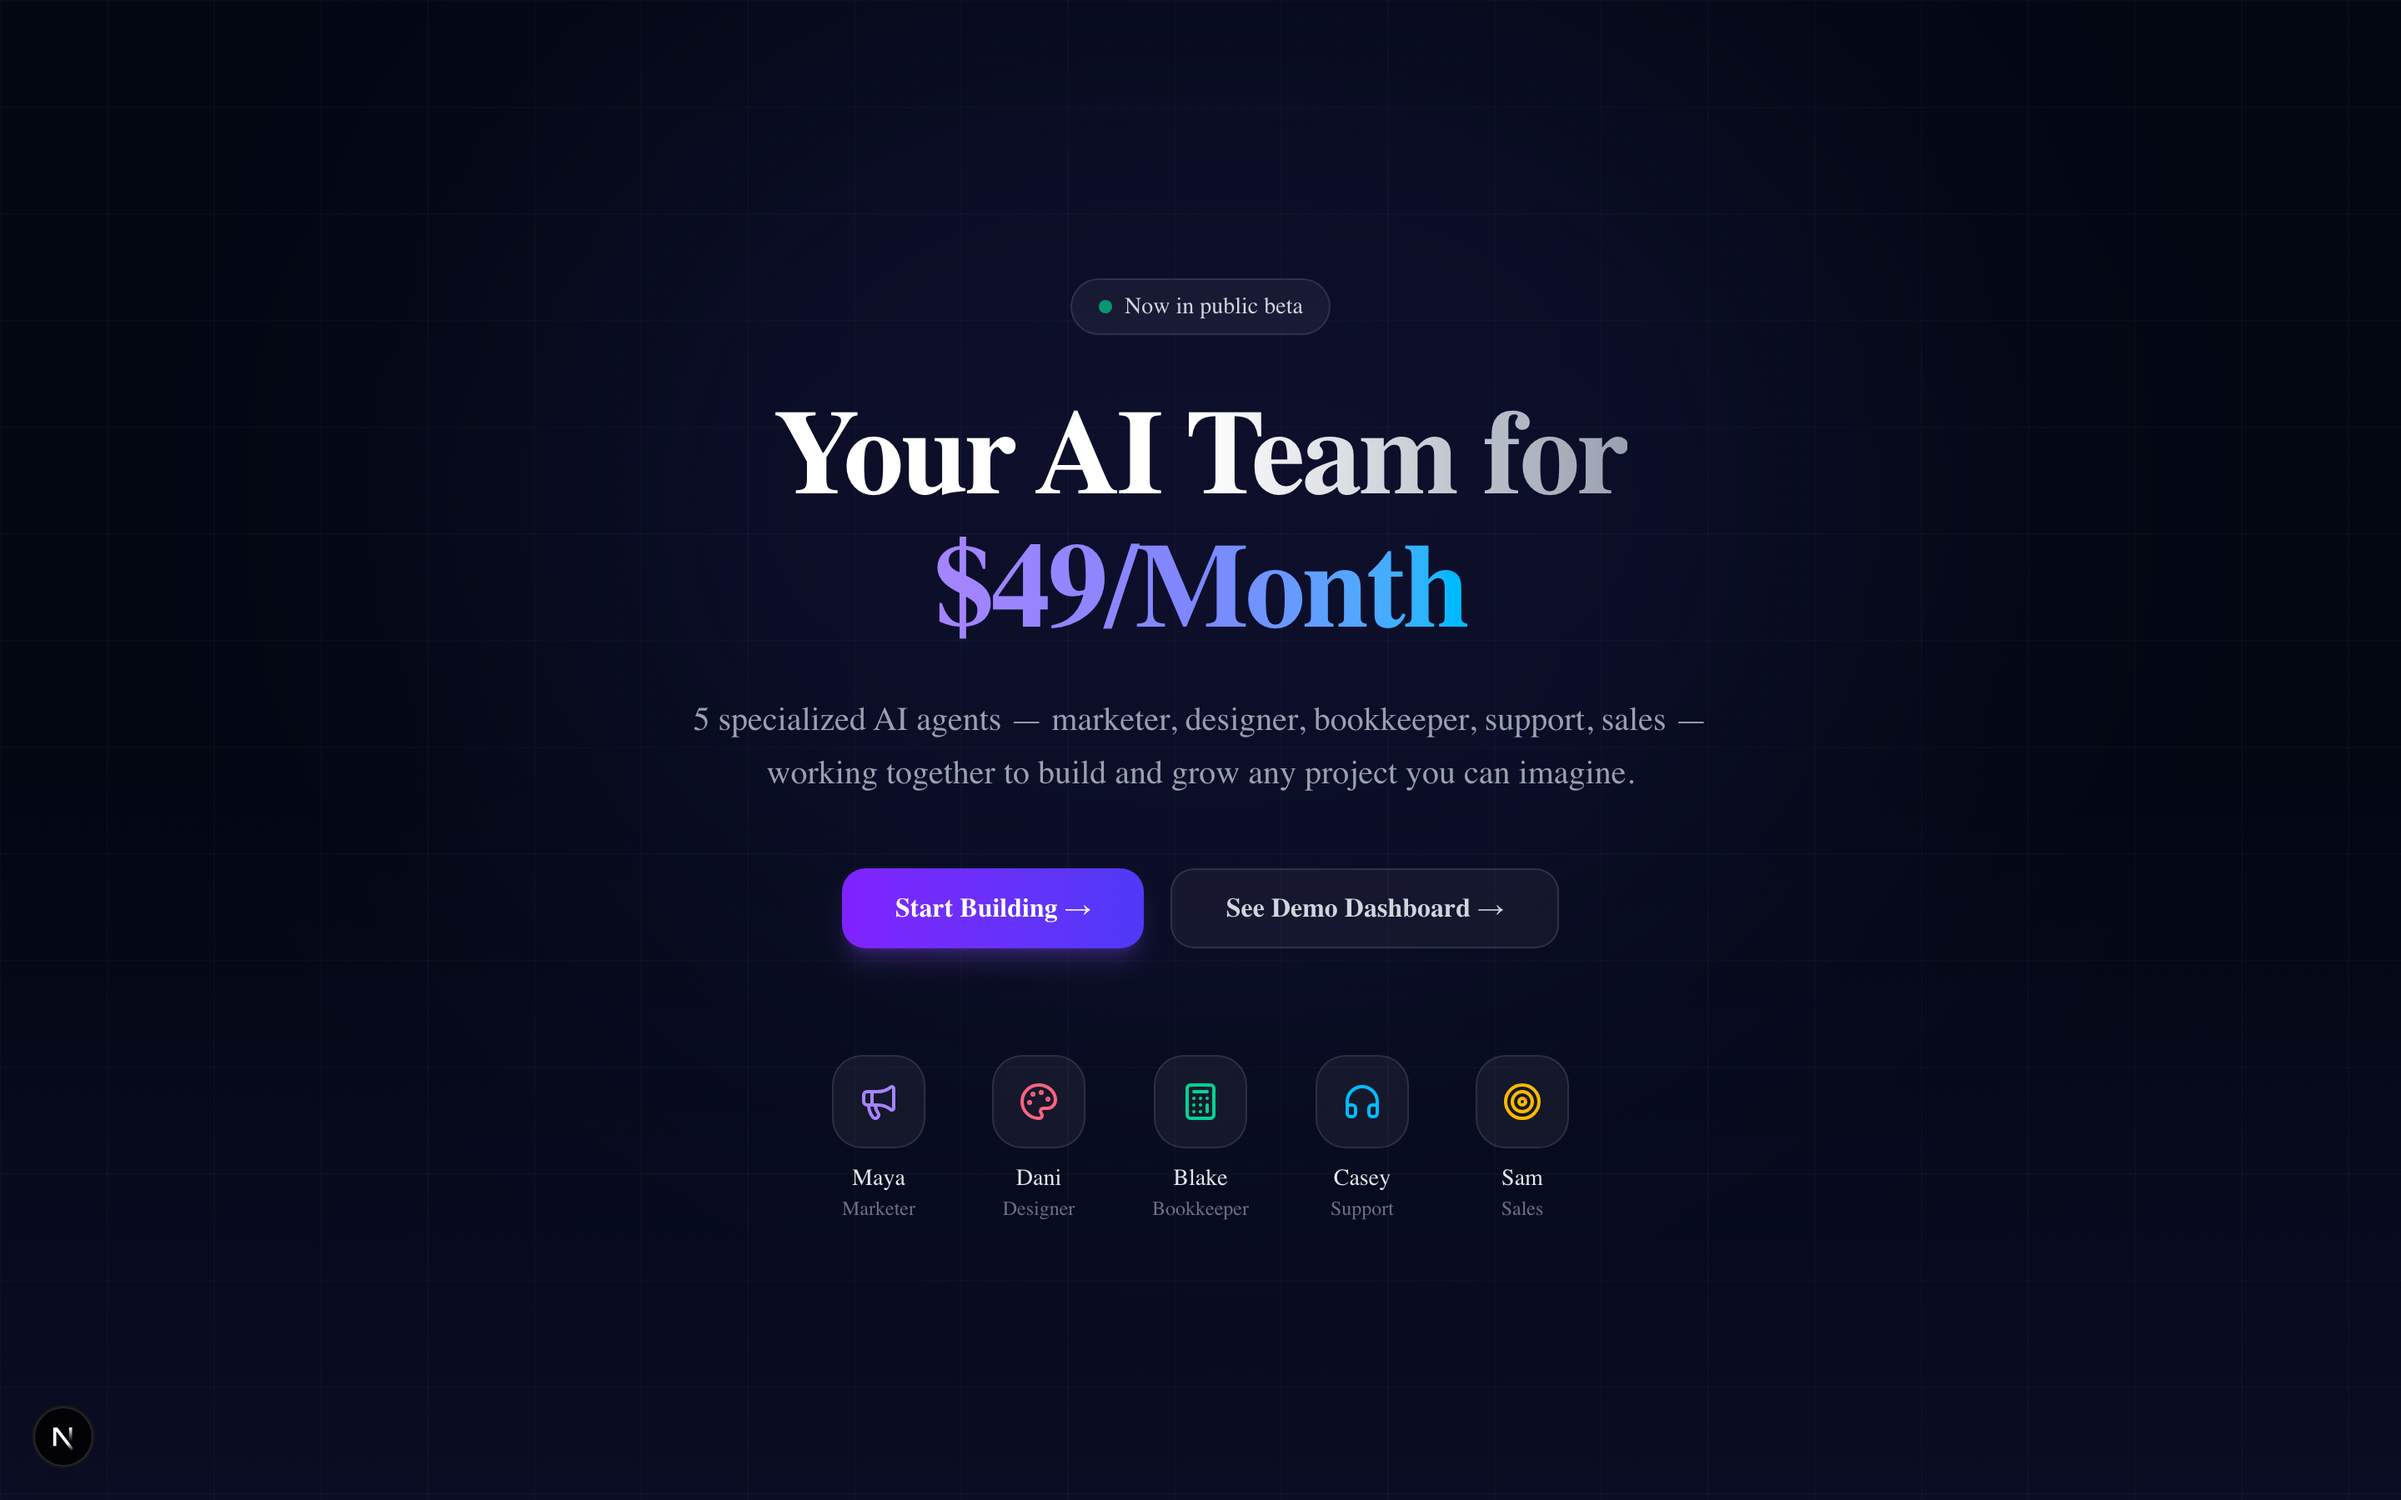
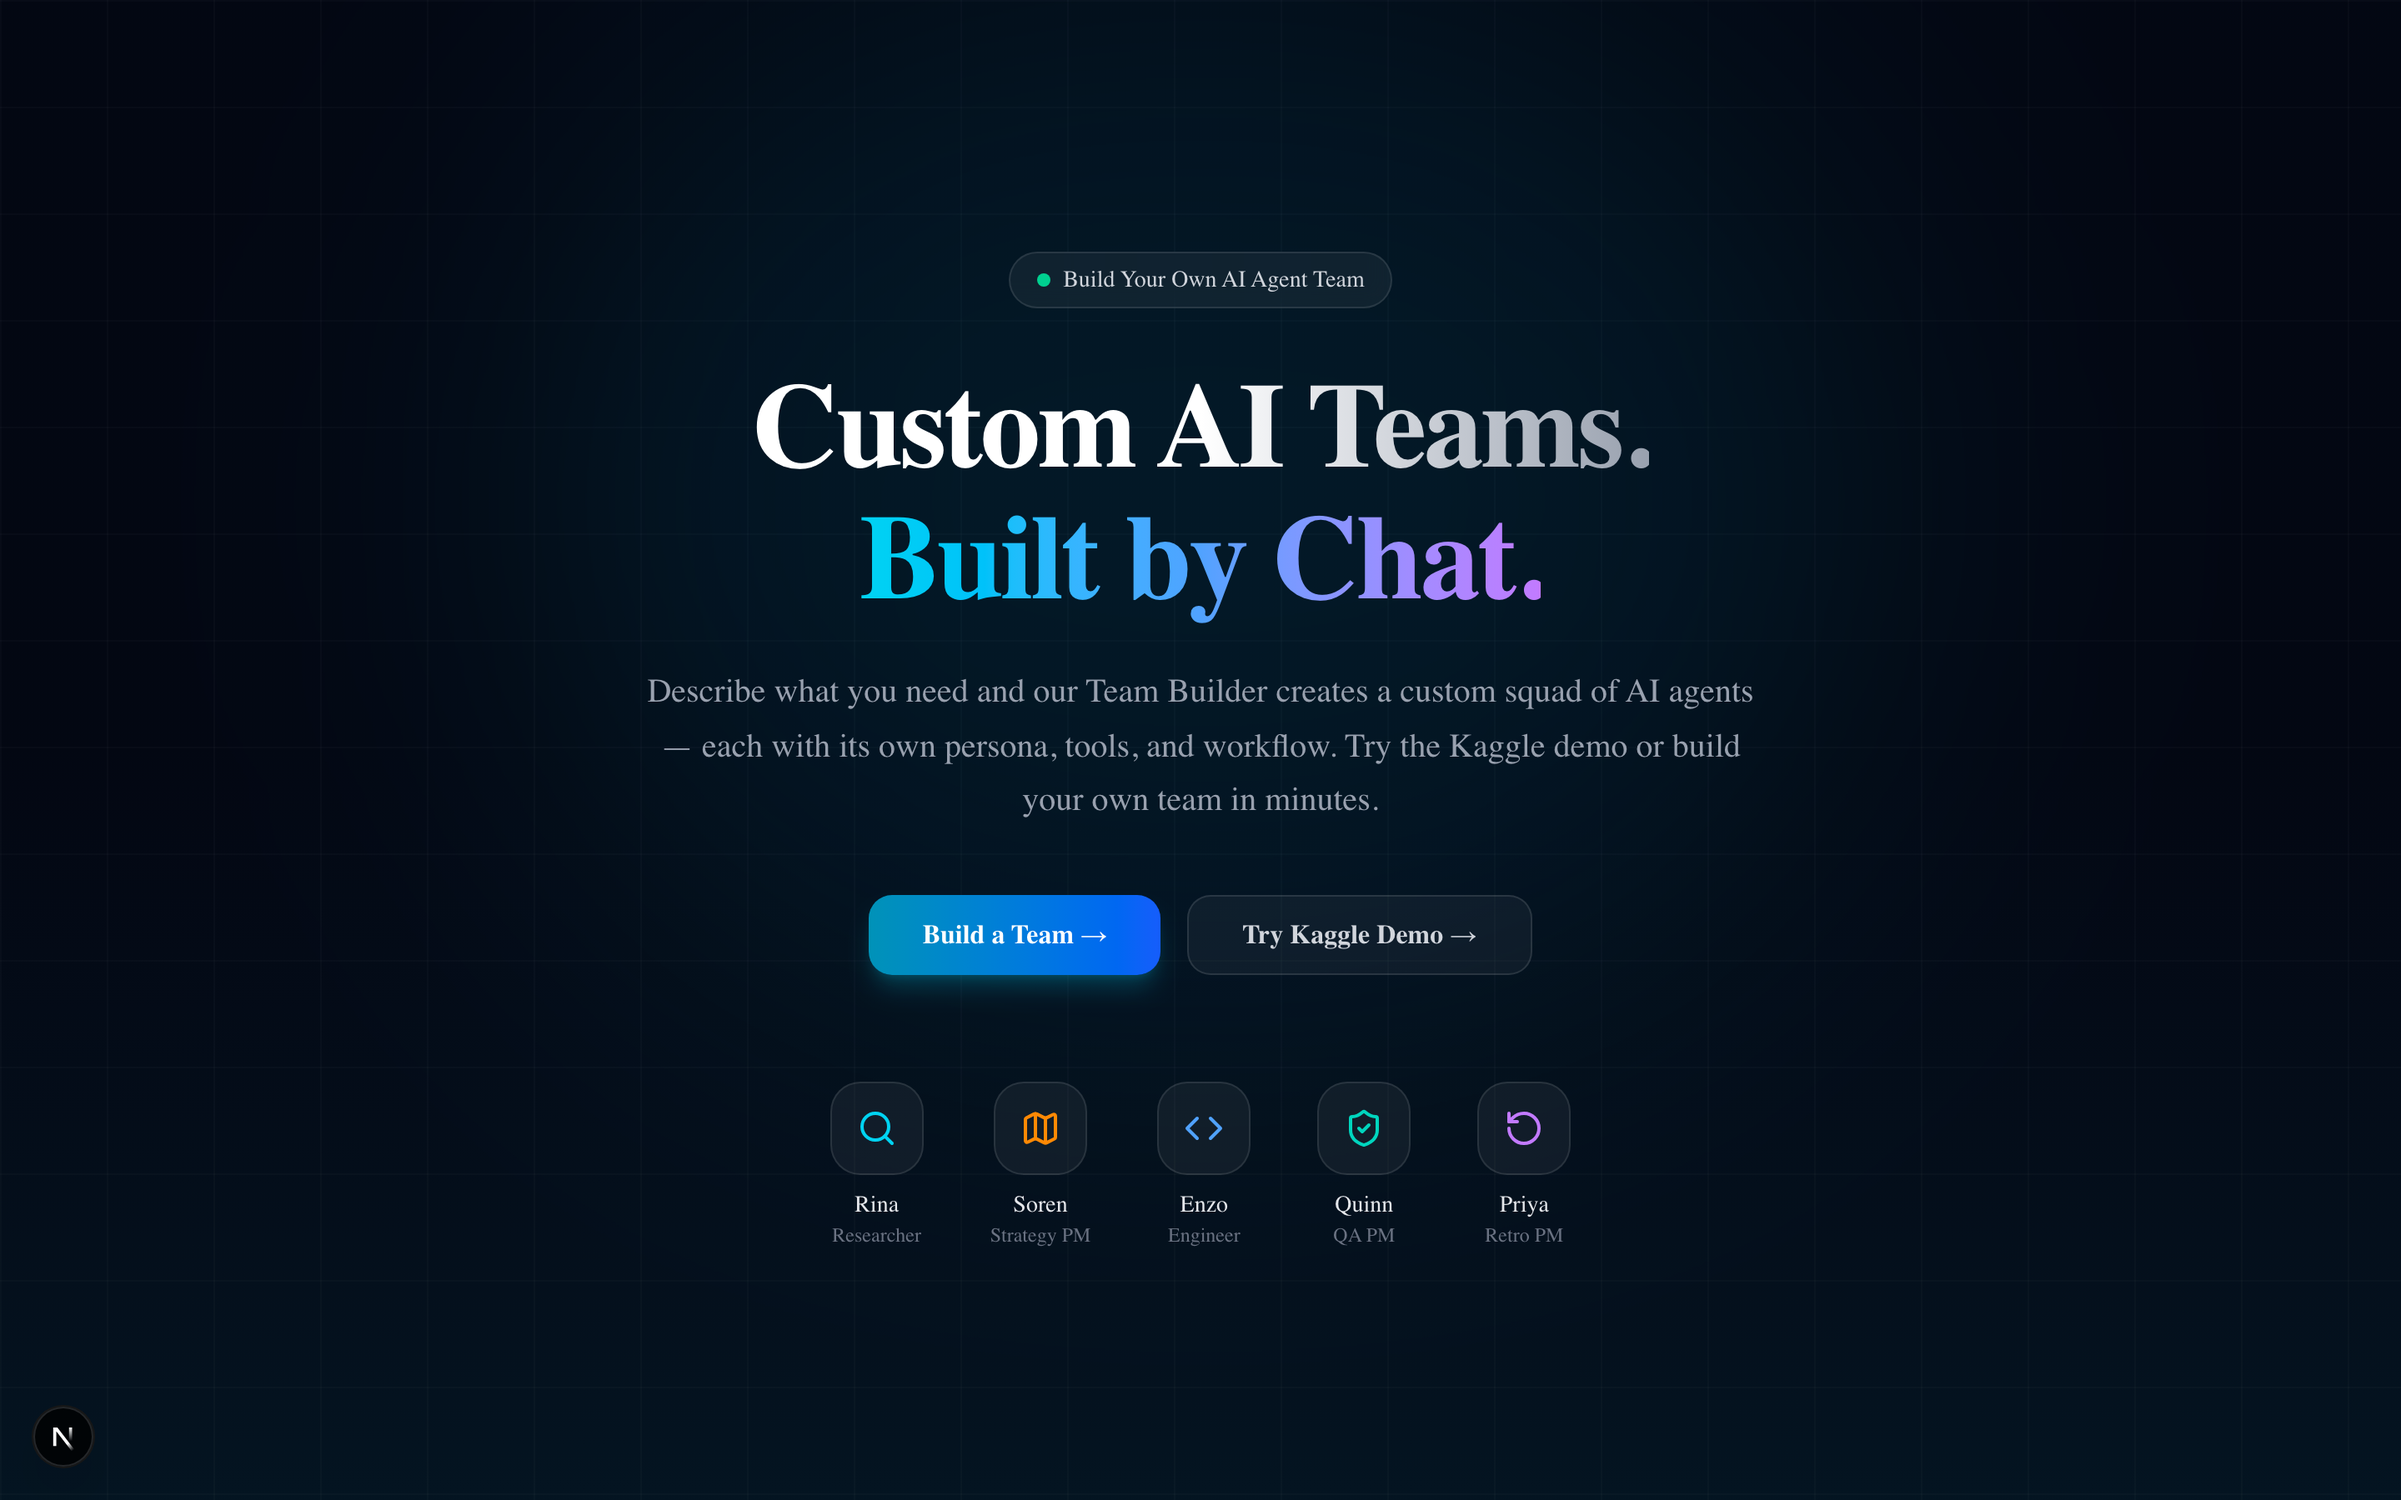
Update solopreneur project card to AI Team Builder
Replace screenshots and rewrite project card to reflect pivot from
solopreneur agents to generic AI team builder with Kaggle demo and
Pixel World visualization. Add 5 new carousel slides.

diff --git a/index.html b/index.html
@@ -313,7 +313,7 @@
         <p class="text-slate-500 max-w-xl mx-auto">Production-grade AI agent applications built solo — demonstrating depth across the full engineering stack</p>
       </div>
 
-      <!-- ── Project 1: Solopreneur Team ── -->
+      <!-- ── Project 1: AI Team Builder ── -->
       <div class="project-card card-bg rounded-3xl p-8 mb-10 fade-in">
         <div class="grid lg:grid-cols-2 gap-10 items-start">
           <!-- Left: info -->
@@ -322,20 +322,29 @@
               <span class="text-2xl">🚀</span>
               <span class="tag" style="font-size:0.68rem">Featured Project</span>
             </div>
-            <h3 class="text-2xl font-black text-white mb-2">Solopreneur Team</h3>
-            <p class="text-violet-400 font-semibold text-sm mb-4">Multi-Agent AI Platform for Creators &amp; Founders</p>
+            <h3 class="text-2xl font-black text-white mb-2">AI Team Builder</h3>
+            <p class="text-violet-400 font-semibold text-sm mb-4">Custom AI Teams, Built by Chat</p>
             <p class="text-slate-400 text-sm leading-relaxed mb-6">
-              A platform where 5 specialized AI agents — Marketer, Designer, Bookkeeper, Customer Support,
-              and Sales — collaborate to run a solopreneur's business. Built solo from scratch:
-              88 source files, ~10,500 LOC. The technical depth is in the <strong class="text-slate-300">agent harness</strong> —
-              not the model, but the system that makes agents reliable, context-efficient, and safe.
+              Describe your project and AI assembles a custom team of specialized agents — roles, tools,
+              and workflow configured automatically. Ships with a Kaggle competition demo (5 agents:
+              Researcher, Strategy PM, Engineer, QA PM, Retro PM) and a live <strong class="text-slate-300">Pixel World</strong>
+              canvas where agents navigate rooms as pixel characters. The technical depth is in the
+              <strong class="text-slate-300">agent harness</strong> — reliable, context-efficient, and safe.
             </p>
 
             <!-- Achievements -->
             <div class="space-y-3 mb-6">
               <div class="flex gap-3 items-start">
                 <span class="text-violet-400 mt-0.5 text-xs">▸</span>
-                <p class="text-sm text-slate-400"><strong class="text-slate-300">Cache-aware prompt assembly</strong> — system prompts split at a dynamic boundary; static sections (~4K tokens) cached per request, reducing latency and inference cost</p>
+                <p class="text-sm text-slate-400"><strong class="text-slate-300">Team Builder bootstrap</strong> — describe your project in chat; AI generates a complete team spec (roles, tools, workflow) and provisions agents without manual config</p>
+              </div>
+              <div class="flex gap-3 items-start">
+                <span class="text-violet-400 mt-0.5 text-xs">▸</span>
+                <p class="text-sm text-slate-400"><strong class="text-slate-300">Pixel World visualization</strong> — live top-down canvas with pixel-art agents navigating named rooms (Research Lab, Strategy HQ, Build Workshop); event log shows real-time activity</p>
+              </div>
+              <div class="flex gap-3 items-start">
+                <span class="text-violet-400 mt-0.5 text-xs">▸</span>
+                <p class="text-sm text-slate-400"><strong class="text-slate-300">Cache-aware prompt assembly</strong> — system prompts split at a dynamic boundary; static sections cached per request, reducing latency and inference cost</p>
               </div>
               <div class="flex gap-3 items-start">
                 <span class="text-violet-400 mt-0.5 text-xs">▸</span>
@@ -343,15 +352,7 @@
               </div>
               <div class="flex gap-3 items-start">
                 <span class="text-violet-400 mt-0.5 text-xs">▸</span>
-                <p class="text-sm text-slate-400"><strong class="text-slate-300">Fail-closed tool governance</strong> — every tool has a <code class="text-cyan-400 text-xs bg-black/30 px-1 rounded">requiresApproval: true</code> default, Zod schema validation, agent-type whitelist, and structured ToolResult</p>
-              </div>
-              <div class="flex gap-3 items-start">
-                <span class="text-violet-400 mt-0.5 text-xs">▸</span>
-                <p class="text-sm text-slate-400"><strong class="text-slate-300">Multi-agent memory scoping</strong> — per-agent memory isolation with cross-agent shared project context; prevents one agent's state from contaminating another</p>
-              </div>
-              <div class="flex gap-3 items-start">
-                <span class="text-violet-400 mt-0.5 text-xs">▸</span>
-                <p class="text-sm text-slate-400"><strong class="text-slate-300">Multi-provider LLM abstraction</strong> — unified interface across OpenAI, Anthropic, and Gemini via Vercel AI SDK v6; swap providers per agent without code changes</p>
+                <p class="text-sm text-slate-400"><strong class="text-slate-300">Kaggle competition demo</strong> — prebuilt 5-agent preset with knowledge base, LB score dashboard, CV-LB gap tracking, and incremental community notebook scanning</p>
               </div>
             </div>
 
@@ -361,6 +362,7 @@
               <span class="tag">TypeScript</span>
               <span class="tag">Vercel AI SDK v6</span>
               <span class="tag">Multi-Agent Orchestration</span>
+              <span class="tag">Pixel World Canvas</span>
               <span class="tag">Context Compression</span>
               <span class="tag">SQLite / Prisma</span>
               <span class="tag">Tailwind CSS</span>
@@ -368,11 +370,11 @@
 
             <!-- Scale badge -->
             <div class="mt-5 inline-flex gap-4 text-xs text-slate-500 font-mono">
-              <span>88 files</span>
+              <span>5 agent roles</span>
               <span class="text-slate-700">·</span>
-              <span>~10,500 LOC</span>
+              <span>Pixel World engine</span>
               <span class="text-slate-700">·</span>
-              <span>5 specialized agents</span>
+              <span>Team Builder AI</span>
               <span class="text-slate-700">·</span>
               <span>Solo build</span>
             </div>
@@ -381,10 +383,11 @@
           <div>
             <div class="carousel" id="carousel-solopreneur">
               <div class="carousel-track" id="track-solopreneur">
-                <div class="carousel-slide"><img src="assets/solopreneur/01-landing.png" alt="Solopreneur Team landing page" /></div>
-                <div class="carousel-slide"><img src="assets/solopreneur/05-team-assembly.png" alt="AI team assembly" /></div>
-                <div class="carousel-slide"><img src="assets/solopreneur/06-dashboard.png" alt="Agent dashboard" /></div>
-                <div class="carousel-slide"><img src="assets/solopreneur/07-agent-marketer.png" alt="AI Marketer agent" /></div>
+                <div class="carousel-slide"><img src="assets/solopreneur/01-landing.png" alt="Custom AI Teams landing page" /></div>
+                <div class="carousel-slide"><img src="assets/solopreneur/02-dashboard.png" alt="Kaggle competition dashboard" /></div>
+                <div class="carousel-slide"><img src="assets/solopreneur/03-agent-researcher.png" alt="Agent knowledge base and data analysis" /></div>
+                <div class="carousel-slide"><img src="assets/solopreneur/04-team-builder.png" alt="Team Builder — design your AI team" /></div>
+                <div class="carousel-slide"><img src="assets/solopreneur/05-pixel-world.png" alt="Pixel World live agent visualization" /></div>
               </div>
               <button class="carousel-btn prev" onclick="prevSlide('solopreneur')">‹</button>
               <button class="carousel-btn next" onclick="nextSlide('solopreneur')">›</button>
@@ -394,9 +397,10 @@
               <div class="dot" onclick="goToSlide('solopreneur',1)"></div>
               <div class="dot" onclick="goToSlide('solopreneur',2)"></div>
               <div class="dot" onclick="goToSlide('solopreneur',3)"></div>
+              <div class="dot" onclick="goToSlide('solopreneur',4)"></div>
             </div>
             <!-- Slide captions -->
-            <p id="caption-solopreneur" class="text-center text-xs text-slate-600 mt-1 italic">Landing page</p>
+            <p id="caption-solopreneur" class="text-center text-xs text-slate-600 mt-1 italic">Custom AI Teams — Built by Chat</p>
           </div>
         </div>
       </div>
@@ -974,7 +978,7 @@
 
     // ── Carousel
     const carousels = {
-      solopreneur: { current: 0, total: 4, captions: ['Landing page', 'AI team assembly', 'Agent dashboard', 'AI Marketer agent'] },
+      solopreneur: { current: 0, total: 5, captions: ['Custom AI Teams — Built by Chat', 'Kaggle competition dashboard', 'Agent knowledge base & data analysis', 'Team Builder — design your AI team', 'Pixel World — live agent visualization'] },
       diary: { current: 0, total: 6, captions: ['Landing page', 'Character chat (first response)', 'Conversation view', 'Generated diary entry', 'Diary calendar view', 'Mood insights & analytics'] }
     };
 
